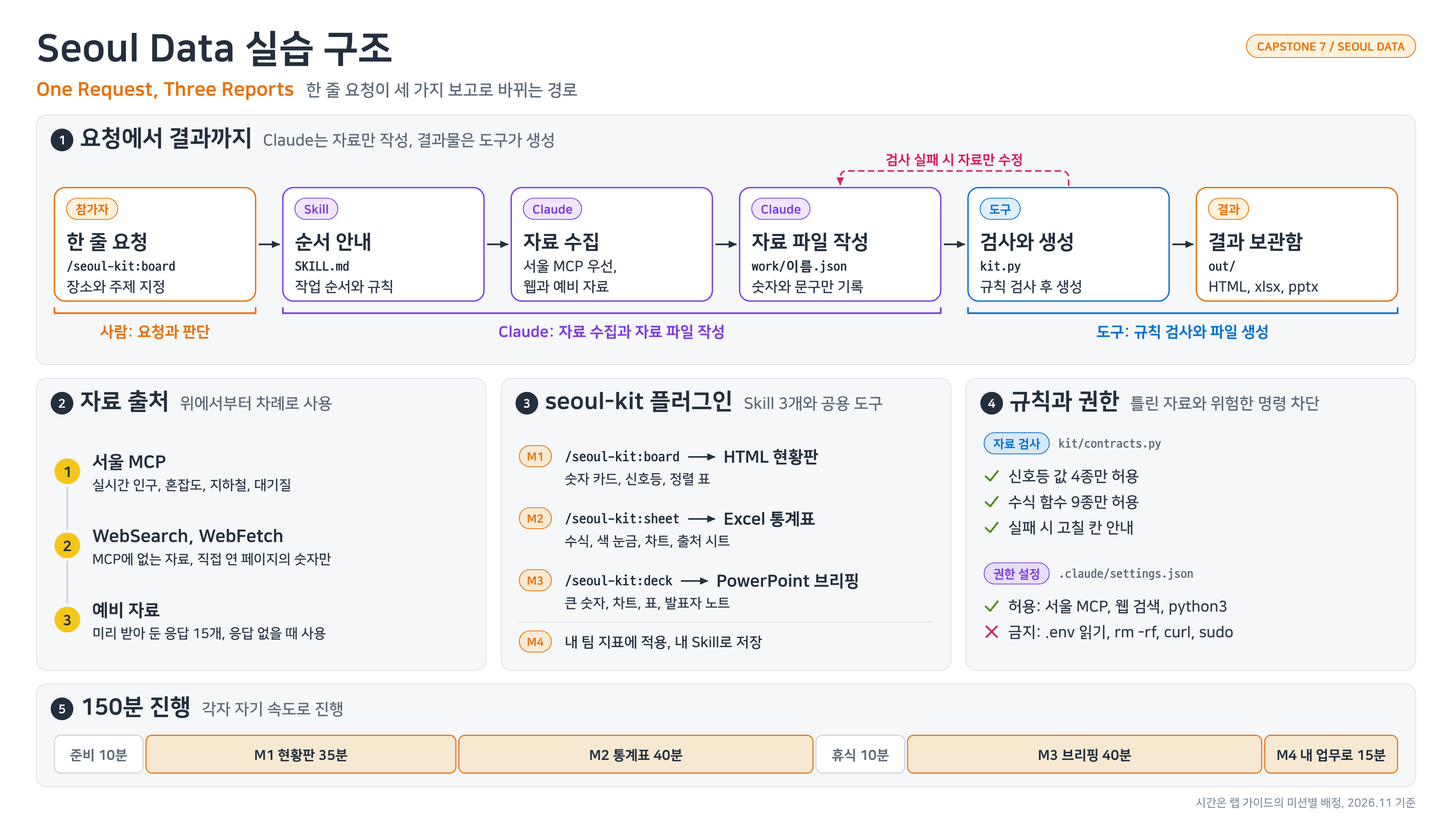
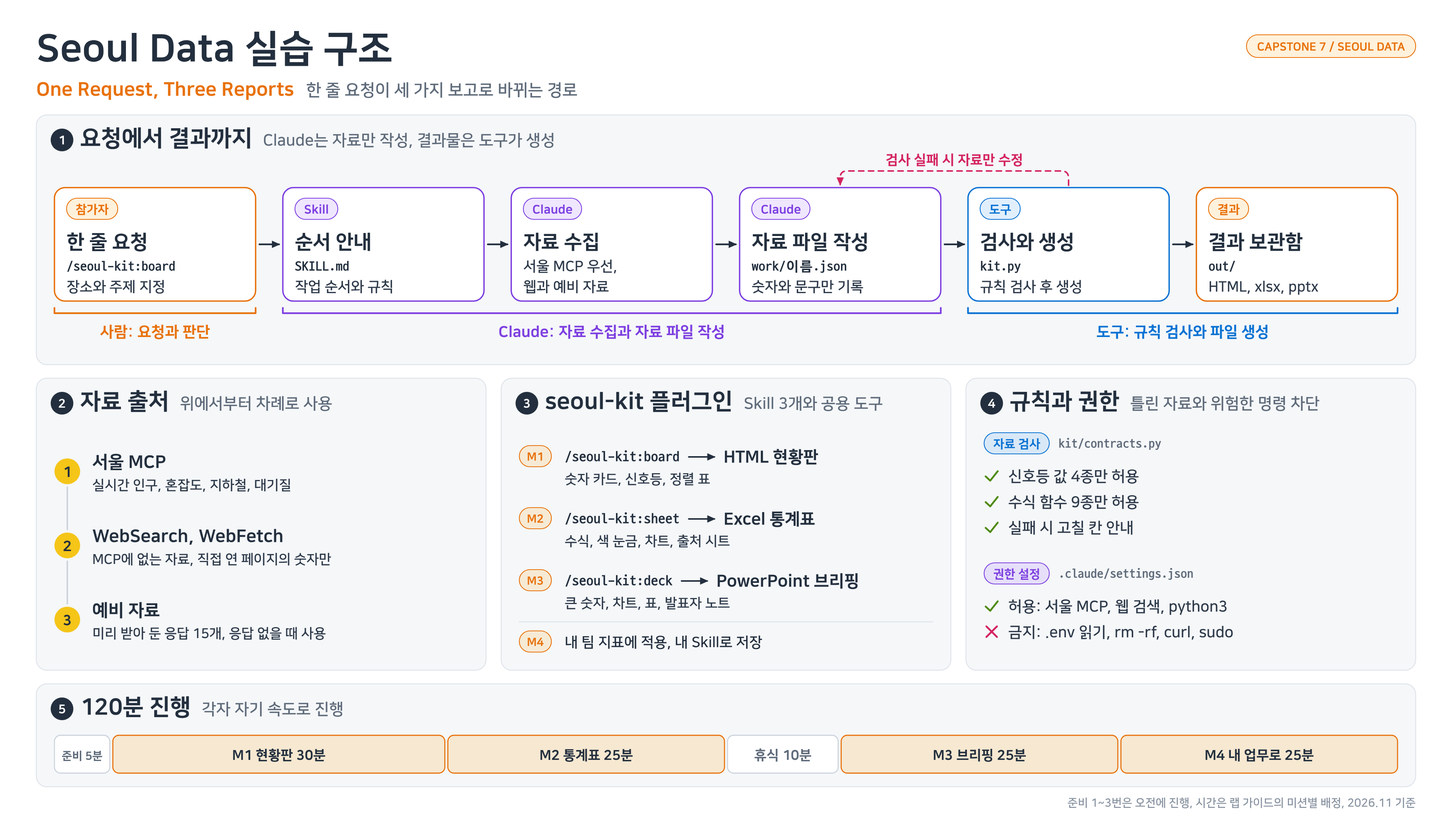
feat(lab): fit the Seoul Data lab into 120 minutes and keep the own-Skill step
The lab now runs in two hours: setup 5, mission 1 30, mission 2 25,
break 10, mission 3 25, mission 4 25. Saving your own Skill stays in
Day 1.

- lab/: one of the three "fix it by talking" prompts is required per
  mission; the two web steps move below the checkpoint as optional
  blocks; setup steps 1 to 3 are done in the morning lab-basics session
- lab/: mission 4 builds one board from the team CSV, saves the request
  as the monthly-report Skill, and that Skill then builds the board,
  the sheet and the deck in one line
- infographic/, lab/assets/: the time strip of the structure figure
  reads 120 minutes
- scripts/add-lab-to-workshop.py: the portal card says 120 minutes
- docs/, README.md: 120-minute run sheet, what to cut when the morning
  setup slips, measured call counts and what was tested

Tested the required path (14 guide prompts, from the first live
question to the end of mission 4) against the workshop gateway with
Sonnet in headless mode: all passed, 5.6 minutes of model time, 12
Seoul MCP calls, no errors. With the same allow list as the workspace
settings and a permission-prompt tool that records and approves
requests, the whole path raised one approval request, the write of
.claude/skills/monthly-report/SKILL.md; the saved Skill then built the
three outputs in a new session.

diff --git a/plugins-skills-workshop/lab/ClaudeCode_Day1_SeoulData_HandsOnLab.html b/plugins-skills-workshop/lab/ClaudeCode_Day1_SeoulData_HandsOnLab.html
@@ -55,7 +55,7 @@
     <div class="article-layout">
       <article class="lesson"><div class="legacy-content" id="workshop-content">
 <header class="hero">
-<span class="eyebrow">CAPSTONE 7 / SEOUL DATA / 150 MIN</span>
+<span class="eyebrow">CAPSTONE 7 / SEOUL DATA / 120 MIN</span>
 <h1>서울 데이터로 만드는 세 가지 보고</h1>
 <div class="subtitle">HTML 현황판, Excel 통계표, PowerPoint 브리핑, 그리고 내 업무로 바꾸기</div>
 <p class="lede">
@@ -64,7 +64,7 @@
     각자 자기 속도로 진행합니다.
   </p>
 <div class="hero-meta">
-<span>소요 시간 <strong>150분</strong></span>
+<span>소요 시간 <strong>120분</strong></span>
 <span>미션 <strong>4개 + 준비</strong></span>
 <span>산출물 <strong>현황판, 통계표, 브리핑, 내 Skill</strong></span>
 <span>Update <strong>2026.11</strong></span>
@@ -74,28 +74,32 @@
 <div class="timeline-inner">
 <span class="timeline-label">진행 <strong id="progress-count">0/5</strong></span>
 <div class="segments" id="segments">
-<button class="seg" data-task="ready" style="flex:10" title="준비, 10분"><span class="fill"></span><span class="seg-txt">준비</span></button>
-<button class="seg" data-task="m1" style="flex:35" title="미션 1 현황판, 35분"><span class="fill"></span><span class="seg-txt">1 현황판</span></button>
-<button class="seg" data-task="m2" style="flex:40" title="미션 2 통계표, 40분"><span class="fill"></span><span class="seg-txt">2 통계표</span></button>
-<button class="seg" data-task="m3" style="flex:40" title="미션 3 브리핑, 40분"><span class="fill"></span><span class="seg-txt">3 브리핑</span></button>
-<button class="seg" data-task="m4" style="flex:15" title="미션 4 내 업무로, 15분"><span class="fill"></span><span class="seg-txt">4 내 업무로</span></button>
+<button class="seg" data-task="ready" style="flex:8" title="준비, 5분"><span class="fill"></span><span class="seg-txt">준비</span></button>
+<button class="seg" data-task="m1" style="flex:30" title="미션 1 현황판, 30분"><span class="fill"></span><span class="seg-txt">1 현황판</span></button>
+<button class="seg" data-task="m2" style="flex:25" title="미션 2 통계표, 25분"><span class="fill"></span><span class="seg-txt">2 통계표</span></button>
+<button class="seg" data-task="m3" style="flex:25" title="미션 3 브리핑, 25분"><span class="fill"></span><span class="seg-txt">3 브리핑</span></button>
+<button class="seg" data-task="m4" style="flex:25" title="미션 4 내 업무로, 25분"><span class="fill"></span><span class="seg-txt">4 내 업무로</span></button>
 </div>
-<span class="timeline-label">150 min</span>
+<span class="timeline-label">120 min</span>
 </div>
 </nav>
 <div class="layout">
 
 <div class="original-main">
 <figure class="lab-structure" id="structure" style="margin:0 0 28px;">
-<a class="ls-light" href="assets/day1-lab/structure-light.png" rel="noopener" target="_blank" title="크게 보기"><img alt="실습 구조 그림. 참가자의 한 줄 요청을 받은 Skill이 순서를 안내하고, Claude가 서울 MCP와 웹과 예비 자료에서 자료를 모아 자료 파일을 쓰면, 도구가 규칙을 검사해 HTML 현황판, Excel 통계표, PowerPoint 브리핑을 만들어 결과 보관함에 둔다. 검사에 실패하면 자료만 고친다. 아래에는 자료 출처 순서, seoul-kit 플러그인의 Skill 세 개, 검사 규칙과 권한 설정, 150분 진행 순서가 있다" height="1080" loading="lazy" src="assets/day1-lab/structure-light.png" style="width:100%; display:block; border:1px solid var(--line); border-radius:10px;" width="1920"/></a>
-<a class="ls-dark" href="assets/day1-lab/structure-dark.png" rel="noopener" target="_blank" title="크게 보기"><img alt="실습 구조 그림. 참가자의 한 줄 요청을 받은 Skill이 순서를 안내하고, Claude가 서울 MCP와 웹과 예비 자료에서 자료를 모아 자료 파일을 쓰면, 도구가 규칙을 검사해 HTML 현황판, Excel 통계표, PowerPoint 브리핑을 만들어 결과 보관함에 둔다. 검사에 실패하면 자료만 고친다. 아래에는 자료 출처 순서, seoul-kit 플러그인의 Skill 세 개, 검사 규칙과 권한 설정, 150분 진행 순서가 있다" height="1080" loading="lazy" src="assets/day1-lab/structure-dark.png" style="width:100%; display:block; border:1px solid var(--line); border-radius:10px;" width="1920"/></a>
+<a class="ls-light" href="assets/day1-lab/structure-light.png" rel="noopener" target="_blank" title="크게 보기"><img alt="실습 구조 그림. 참가자의 한 줄 요청을 받은 Skill이 순서를 안내하고, Claude가 서울 MCP와 웹과 예비 자료에서 자료를 모아 자료 파일을 쓰면, 도구가 규칙을 검사해 HTML 현황판, Excel 통계표, PowerPoint 브리핑을 만들어 결과 보관함에 둔다. 검사에 실패하면 자료만 고친다. 아래에는 자료 출처 순서, seoul-kit 플러그인의 Skill 세 개, 검사 규칙과 권한 설정, 120분 진행 순서가 있다" height="1080" loading="lazy" src="assets/day1-lab/structure-light.png" style="width:100%; display:block; border:1px solid var(--line); border-radius:10px;" width="1920"/></a>
+<a class="ls-dark" href="assets/day1-lab/structure-dark.png" rel="noopener" target="_blank" title="크게 보기"><img alt="실습 구조 그림. 참가자의 한 줄 요청을 받은 Skill이 순서를 안내하고, Claude가 서울 MCP와 웹과 예비 자료에서 자료를 모아 자료 파일을 쓰면, 도구가 규칙을 검사해 HTML 현황판, Excel 통계표, PowerPoint 브리핑을 만들어 결과 보관함에 둔다. 검사에 실패하면 자료만 고친다. 아래에는 자료 출처 순서, seoul-kit 플러그인의 Skill 세 개, 검사 규칙과 권한 설정, 120분 진행 순서가 있다" height="1080" loading="lazy" src="assets/day1-lab/structure-dark.png" style="width:100%; display:block; border:1px solid var(--line); border-radius:10px;" width="1920"/></a>
 <figcaption style="margin-top:8px; font-size:13px; color:var(--muted);">실습 구조. Claude는 자료를 모아 자료 파일만 쓰고, 정해진 도구가 그 자료를 검사해 결과물을 만듭니다. 그림을 누르면 크게 열립니다.</figcaption>
 </figure>
 <section class="task" id="ready">
-<div class="task-head"><span class="task-num">SETUP</span><h2>준비, 플러그인 설치와 서울 데이터 연결</h2><span class="time-badge">10분</span></div>
+<div class="task-head"><span class="task-num">SETUP</span><h2>준비, 플러그인 설치와 서울 데이터 연결</h2><span class="time-badge">5분</span></div>
 <p class="task-goal">
     실습 자료를 받아 놓고, 오늘 쓸 <strong>seoul-kit 플러그인</strong>을 설치한 다음, 서울 열린데이터를 Claude Code에 연결합니다. 플러그인은 강의에서 본 대로 Skill과 도구를 한 묶음으로 설치하는 단위입니다.
 </p>
+<div class="callout tip">
+<span class="co-title">언제 하나요</span>
+    1번부터 3번까지는 오전 랩 기본 구성 시간에 함께 합니다. 오후 실습은 4번부터 시작합니다. 오전에 마치지 못했다면 1번부터 차례로 하세요.
+  </div>
 <div class="step-title"><span class="step-no">1</span>실습 자료 받기, 터미널에서 두 줄</div>
 <p class="body">code-server의 터미널에서 차례로 실행합니다. 첫 줄은 실습 자료를 내려받습니다. 둘째 줄은 플러그인 목록을 <code class="inline">~/workshop-kit</code>에, 작업 폴더를 <code class="inline">~/seoul-lab</code>에 놓고, Excel과 PowerPoint 파일을 만드는 데 쓰는 Python 라이브러리를 설치합니다.</p>
 <div class="code-wrap" data-code-kind="terminal">
@@ -159,7 +163,7 @@
 </div>
 </section>
 <section class="task" id="m1">
-<div class="task-head"><span class="task-num">MISSION 01</span><h2>현황판, 지금 서울 세 곳</h2><span class="time-badge">35분</span></div>
+<div class="task-head"><span class="task-num">MISSION 01</span><h2>현황판, 지금 서울 세 곳</h2><span class="time-badge">30분</span></div>
 <p class="task-goal">
     내가 고른 장소 세 곳의 지금 모습을 <strong>HTML 한 화면</strong>으로 만듭니다. 주간 현황 보고 화면을 만드는 일과 같습니다. 큰 숫자 카드와 신호등, 눌러서 정렬하는 비교표, 출처가 한 화면에 나옵니다.
 </p>
@@ -181,7 +185,7 @@
 <figcaption style="margin-top:6px; font-size:13px; color:var(--muted);">예시 화면. 숫자는 2026년 11월 19일 저녁의 실제 값이며 여러분 화면의 숫자는 다릅니다.</figcaption>
 </figure>
 <div class="step-title"><span class="step-no">3</span>말로 고치기</div>
-<p class="body">마음에 안 드는 곳을 말로 고칩니다. 하나씩 시켜 보고, 보관함에서 현황판을 새로 고쳐 확인하세요.</p>
+<p class="body">마음에 안 드는 곳을 말로 고칩니다. 셋 가운데 하나를 골라 시켜 보고, 보관함에서 현황판을 새로 고쳐 확인하세요. 시간이 남으면 나머지도 해 봅니다.</p>
 <div class="code-wrap prompt" data-code-kind="prompt">
 <div class="code-head"><span class="code-label">Claude 세션 입력, 고치기 1</span><button aria-label="Claude 세션 입력, 고치기 1 복사" class="ws-copy" data-copy-code="workshop-code-011" data-copy-label="Claude 세션 입력, 고치기 1 복사" type="button">복사</button></div>
 <pre id="workshop-code-011"><code>도로 평균 속도와 미세먼지도 카드로 넣어 줘</code></pre>
@@ -213,7 +217,7 @@
 <div class="cp-title">CHECKPOINT</div>
 <label class="cp-item"><input data-cp="m1a" type="checkbox"/><span>결과 보관함에서 내 현황판을 열었다</span></label>
 <label class="cp-item"><input data-cp="m1b" type="checkbox"/><span>표를 정렬하고 P로 발표 모드를 써 봤다</span></label>
-<label class="cp-item"><input data-cp="m1c" type="checkbox"/><span>말로 두 번 이상 고쳐서 내 현황판으로 만들었다</span></label>
+<label class="cp-item"><input data-cp="m1c" type="checkbox"/><span>말로 한 번 이상 고쳐서 내 현황판으로 만들었다</span></label>
 <label class="cp-item"><input data-cp="m1d" type="checkbox"/><span>검사 실패 문구를 보고 되돌렸다</span></label>
 </div>
 <div class="step-title"><span class="step-no">+</span>먼저 끝났다면, 도전 과제</div>
@@ -225,7 +229,7 @@
 </table>
 </section>
 <section class="task" id="m2">
-<div class="task-head"><span class="task-num">MISSION 02</span><h2>통계표, 숫자를 표로 따지기</h2><span class="time-badge">40분</span></div>
+<div class="task-head"><span class="task-num">MISSION 02</span><h2>통계표, 숫자를 표로 따지기</h2><span class="time-badge">25분</span></div>
 <p class="task-goal">
     숫자를 <strong>Excel 통계표</strong>로 만듭니다. 합계, 비율, 순위는 Claude가 계산해서 적는 것이 아니라 Excel 수식으로 들어갑니다. 받은 사람이 값을 고치면 계산이 따라 바뀝니다.
 </p>
@@ -258,6 +262,7 @@
 <figcaption style="margin-top:6px; font-size:13px; color:var(--muted);">예시. 색 눈금과 칸 안의 막대, 합계 줄, 차트가 함께 들어갑니다.</figcaption>
 </figure>
 <div class="step-title"><span class="step-no">3</span>말로 고치기</div>
+<p class="body">셋 가운데 하나를 골라 시켜 봅니다. 다른 주제를 골랐다면 역 이름과 열 이름을 내 표에 맞게 바꾸세요. 고친 뒤 보관함에서 다시 내려받습니다.</p>
 <div class="code-wrap prompt" data-code-kind="prompt">
 <div class="code-head"><span class="code-label">Claude 세션 입력, 고치기 1</span><button aria-label="Claude 세션 입력, 고치기 1 복사" class="ws-copy" data-copy-code="workshop-code-020" data-copy-label="Claude 세션 입력, 고치기 1 복사" type="button">복사</button></div>
 <pre id="workshop-code-020"><code>시트를 하나 더 만들어서 성수역과 나란히 비교해 줘. 두 역의 배율 열도 넣어 줘</code></pre>
@@ -270,16 +275,6 @@
 <div class="code-head"><span class="code-label">Claude 세션 입력, 고치기 3</span><button aria-label="Claude 세션 입력, 고치기 3 복사" class="ws-copy" data-copy-code="workshop-code-022" data-copy-label="Claude 세션 입력, 고치기 3 복사" type="button">복사</button></div>
 <pre id="workshop-code-022"><code>차트를 막대로 바꾸고, 가장 붐비는 시간대 세 개를 notes에 적어 줘</code></pre>
 </div>
-<div class="step-title"><span class="step-no">4</span>웹에서 비교 기준 찾아 붙이기</div>
-<p class="body">서울 데이터에 없는 것은 웹에서 찾습니다. Claude가 검색하고 페이지를 직접 열어 확인한 뒤 출처 주소를 적습니다. 찾지 못했다는 답도 정상입니다.</p>
-<div class="code-wrap prompt" data-code-kind="prompt">
-<div class="code-head"><span class="code-label">Claude 세션 입력</span><button aria-label="Claude 세션 입력 복사" class="ws-copy" data-copy-code="workshop-code-023" data-copy-label="Claude 세션 입력 복사" type="button">복사</button></div>
-<pre id="workshop-code-023"><code>이 표와 견줄 만한 기준을 웹에서 하나 찾아 줘. 예를 들면 지하철 전체에서 이 역의 순위나 지난해 수치. 직접 열어 확인한 숫자만 시트로 추가하고 출처 주소를 적어 줘. 못 찾으면 못 찾았다고 말해 줘</code></pre>
-</div>
-<div class="callout warn">
-<span class="co-title">웹에서 온 숫자는 한 번 더</span>
-    출처 주소를 눌러 직접 확인하세요. 보고에 쓰는 숫자의 책임은 사람에게 있습니다.
-  </div>
 <div class="callout tip">
 <span class="co-title">여기까지 배운 것</span>
     계산은 수식에 맡기고, AI에게는 자료를 모으고 표를 설계하는 일을 맡깁니다. 받은 사람이 값을 고쳐도 표가 살아 있습니다.
@@ -289,8 +284,17 @@
 <label class="cp-item"><input data-cp="m2a" type="checkbox"/><span>내려받은 통계표에서 수식이 든 칸을 확인했다</span></label>
 <label class="cp-item"><input data-cp="m2b" type="checkbox"/><span>숫자 하나를 바꿔 합계와 순위가 따라 바뀌는 것을 봤다</span></label>
 <label class="cp-item"><input data-cp="m2c" type="checkbox"/><span>말로 한 번 이상 고쳐서 다시 내려받았다</span></label>
-<label class="cp-item"><input data-cp="m2d" type="checkbox"/><span>웹 출처가 붙었거나, 찾지 못했다는 답을 받았다</span></label>
 </div>
+<div class="step-title"><span class="step-no">+</span>먼저 끝났다면, 웹에서 비교 기준 찾아 붙이기</div>
+<p class="body">서울 데이터에 없는 것은 웹에서 찾습니다. Claude가 검색하고 페이지를 직접 열어 확인한 뒤 출처 주소를 적습니다. 찾지 못했다는 답도 정상입니다.</p>
+<div class="code-wrap prompt" data-code-kind="prompt">
+<div class="code-head"><span class="code-label">Claude 세션 입력</span><button aria-label="Claude 세션 입력 복사" class="ws-copy" data-copy-code="workshop-code-023" data-copy-label="Claude 세션 입력 복사" type="button">복사</button></div>
+<pre id="workshop-code-023"><code>이 표와 견줄 만한 기준을 웹에서 하나 찾아 줘. 예를 들면 지하철 전체에서 이 역의 순위나 지난해 수치. 직접 열어 확인한 숫자만 시트로 추가하고 출처 주소를 적어 줘. 못 찾으면 못 찾았다고 말해 줘</code></pre>
+</div>
+<div class="callout warn">
+<span class="co-title">웹에서 온 숫자는 한 번 더</span>
+    출처 주소를 눌러 직접 확인하세요. 보고에 쓰는 숫자의 책임은 사람에게 있습니다.
+  </div>
 <div class="step-title"><span class="step-no">+</span>먼저 끝났다면, 도전 과제</div>
 <table class="tbl">
 <tr><th>누구에게</th><th>해 볼 것</th></tr>
@@ -304,7 +308,7 @@
   </div>
 </section>
 <section class="task" id="m3">
-<div class="task-head"><span class="task-num">MISSION 03</span><h2>브리핑, 다섯 장으로 말하기</h2><span class="time-badge">40분</span></div>
+<div class="task-head"><span class="task-num">MISSION 03</span><h2>브리핑, 다섯 장으로 말하기</h2><span class="time-badge">25분</span></div>
 <p class="task-goal">
     앞에서 만든 현황판과 통계표를 묶어 <strong>PowerPoint 보고 자료</strong>로 만듭니다. 장마다 한 줄 결론이 붙고, 표와 차트는 PowerPoint에서 고칠 수 있는 진짜 표와 차트입니다.
 </p>
@@ -325,6 +329,7 @@
 <figcaption style="margin-top:6px; font-size:13px; color:var(--muted);">예시. 색은 네 가지 가운데 고를 수 있습니다.</figcaption>
 </figure>
 <div class="step-title"><span class="step-no">3</span>말로 고치기</div>
+<p class="body">셋 가운데 하나를 골라 시켜 봅니다. 고친 뒤 보관함에서 다시 내려받아 확인하세요.</p>
 <div class="code-wrap prompt" data-code-kind="prompt">
 <div class="code-head"><span class="code-label">Claude 세션 입력, 고치기 1</span><button aria-label="Claude 세션 입력, 고치기 1 복사" class="ws-copy" data-copy-code="workshop-code-026" data-copy-label="Claude 세션 입력, 고치기 1 복사" type="button">복사</button></div>
 <pre id="workshop-code-026"><code>색을 forest로 바꿔 줘</code></pre>
@@ -337,16 +342,11 @@
 <div class="code-head"><span class="code-label">Claude 세션 입력, 고치기 3</span><button aria-label="Claude 세션 입력, 고치기 3 복사" class="ws-copy" data-copy-code="workshop-code-028" data-copy-label="Claude 세션 입력, 고치기 3 복사" type="button">복사</button></div>
 <pre id="workshop-code-028"><code>표가 있는 장을 막대 차트로 바꿔 줘</code></pre>
 </div>
-<div class="step-title"><span class="step-no">4</span>배경 한 장 더하기</div>
-<div class="code-wrap prompt" data-code-kind="prompt">
-<div class="code-head"><span class="code-label">Claude 세션 입력</span><button aria-label="Claude 세션 입력 복사" class="ws-copy" data-copy-code="workshop-code-029" data-copy-label="Claude 세션 입력 복사" type="button">복사</button></div>
-<pre id="workshop-code-029"><code>이 주제와 관련된 최근 소식이나 정책을 웹에서 하나 찾아서 정리 장 앞에 한 장으로 넣어 줘. 직접 연 페이지만 쓰고 출처 주소를 붙여 줘</code></pre>
-</div>
-<div class="step-title"><span class="step-no">5</span>검산하기</div>
+<div class="step-title"><span class="step-no">4</span>검산하기</div>
 <p class="body">보고 전에 숫자가 어디서 왔는지 되짚습니다. 표를 받은 뒤 숫자 하나를 골라 통계표와 직접 대조하세요.</p>
 <div class="code-wrap prompt" data-code-kind="prompt">
-<div class="code-head"><span class="code-label">Claude 세션 입력</span><button aria-label="Claude 세션 입력 복사" class="ws-copy" data-copy-code="workshop-code-030" data-copy-label="Claude 세션 입력 복사" type="button">복사</button></div>
-<pre id="workshop-code-030"><code>브리핑에 들어간 숫자를 전부 뽑아서, 각각 어느 자료의 어느 값에서 왔는지 표로 보여 줘. 직접 계산한 값은 계산식을 적어 줘</code></pre>
+<div class="code-head"><span class="code-label">Claude 세션 입력</span><button aria-label="Claude 세션 입력 복사" class="ws-copy" data-copy-code="workshop-code-029" data-copy-label="Claude 세션 입력 복사" type="button">복사</button></div>
+<pre id="workshop-code-029"><code>브리핑에 들어간 숫자를 전부 뽑아서, 각각 어느 자료의 어느 값에서 왔는지 표로 보여 줘. 직접 계산한 값은 계산식을 적어 줘</code></pre>
 </div>
 <div class="callout tip">
 <span class="co-title">여기까지 배운 것</span>
@@ -356,8 +356,14 @@
 <div class="cp-title">CHECKPOINT</div>
 <label class="cp-item"><input data-cp="m3a" type="checkbox"/><span>내려받은 브리핑에서 차트가 편집되는 것을 확인했다</span></label>
 <label class="cp-item"><input data-cp="m3b" type="checkbox"/><span>발표자 노트와 출처 장을 확인했다</span></label>
-<label class="cp-item"><input data-cp="m3c" type="checkbox"/><span>말로 두 번 이상 고쳤다</span></label>
+<label class="cp-item"><input data-cp="m3c" type="checkbox"/><span>말로 한 번 이상 고쳤다</span></label>
 <label class="cp-item"><input data-cp="m3d" type="checkbox"/><span>숫자 하나를 내 눈으로 통계표와 대조했다</span></label>
+</div>
+<div class="step-title"><span class="step-no">+</span>먼저 끝났다면, 웹에서 배경 한 장 더하기</div>
+<p class="body">이 주제의 배경이 되는 소식이나 정책을 웹에서 찾아 한 장으로 넣습니다. Claude가 직접 연 페이지만 쓰고 출처 주소를 붙입니다.</p>
+<div class="code-wrap prompt" data-code-kind="prompt">
+<div class="code-head"><span class="code-label">Claude 세션 입력</span><button aria-label="Claude 세션 입력 복사" class="ws-copy" data-copy-code="workshop-code-030" data-copy-label="Claude 세션 입력 복사" type="button">복사</button></div>
+<pre id="workshop-code-030"><code>이 주제와 관련된 최근 소식이나 정책을 웹에서 하나 찾아서 정리 장 앞에 한 장으로 넣어 줘. 직접 연 페이지만 쓰고 출처 주소를 붙여 줘</code></pre>
 </div>
 <div class="step-title"><span class="step-no">+</span>먼저 끝났다면, 도전 과제</div>
 <table class="tbl">
@@ -368,40 +374,33 @@
 </table>
 </section>
 <section class="task" id="m4">
-<div class="task-head"><span class="task-num">MISSION 04</span><h2>내 업무로 바꾸기</h2><span class="time-badge">15분</span></div>
+<div class="task-head"><span class="task-num">MISSION 04</span><h2>내 업무로 바꾸기</h2><span class="time-badge">25분</span></div>
 <p class="task-goal">
     서울 데이터 자리에 내 자료를 넣습니다. 작업 폴더의 <code class="inline">data/team-kpi.csv</code>는 연습용으로 지어낸 팀 지표입니다. 실제 업무 자료는 오늘 올리지 않습니다.
 </p>
-<div class="step-title"><span class="step-no">1</span>팀 지표로 세 가지 만들기</div>
+<div class="step-title"><span class="step-no">1</span>팀 지표로 현황판 만들기</div>
+<p class="body">먼저 하나를 직접 만들어 봅니다. 신호등 이름과 기준은 내가 정합니다.</p>
 <div class="code-wrap prompt" data-code-kind="prompt">
 <div class="code-head"><span class="code-label">Claude 세션 입력, 현황판</span><button aria-label="Claude 세션 입력, 현황판 복사" class="ws-copy" data-copy-code="workshop-code-031" data-copy-label="Claude 세션 입력, 현황판 복사" type="button">복사</button></div>
 <pre id="workshop-code-031"><code>data/team-kpi.csv로 현황판을 만들어 줘. 신호등은 달성, 주의, 미달로 하고, 기준은 재문의율 7% 이하면 달성, 9% 이하면 주의, 그보다 높으면 미달이야</code></pre>
 </div>
-<div class="code-wrap prompt" data-code-kind="prompt">
-<div class="code-head"><span class="code-label">Claude 세션 입력, 통계표</span><button aria-label="Claude 세션 입력, 통계표 복사" class="ws-copy" data-copy-code="workshop-code-032" data-copy-label="Claude 세션 입력, 통계표 복사" type="button">복사</button></div>
-<pre id="workshop-code-032"><code>같은 자료로 통계표도 만들어 줘. 처리율 열을 수식으로 넣고 월별 추이 차트를 붙여 줘</code></pre>
-</div>
-<div class="code-wrap prompt" data-code-kind="prompt">
-<div class="code-head"><span class="code-label">Claude 세션 입력, 브리핑</span><button aria-label="Claude 세션 입력, 브리핑 복사" class="ws-copy" data-copy-code="workshop-code-033" data-copy-label="Claude 세션 입력, 브리핑 복사" type="button">복사</button></div>
-<pre id="workshop-code-033"><code>방금 두 결과를 묶어 월간 보고 브리핑으로 만들어 줘</code></pre>
-</div>
 <div class="step-title"><span class="step-no">2</span>내 Skill로 저장하기</div>
-<p class="body">매달 같은 보고를 한다면 방금 한 요청을 Skill로 남깁니다. 다음 달에는 한 줄이면 됩니다. 저장할 때 승인 창이 뜨면 내용을 읽고 <strong>Yes</strong>를 고릅니다.</p>
+<p class="body">매달 같은 보고를 한다면 방금 한 요청을 Skill로 남깁니다. 다음 달에는 한 줄이면 됩니다. 이번에는 통계표와 브리핑까지 한 번에 만들도록 적어 둡니다. 저장할 때 승인 창이 뜨면 내용을 읽고 <strong>Yes</strong>를 고릅니다.</p>
 <div class="code-wrap prompt" data-code-kind="prompt">
-<div class="code-head"><span class="code-label">Claude 세션 입력</span><button aria-label="Claude 세션 입력 복사" class="ws-copy" data-copy-code="workshop-code-034" data-copy-label="Claude 세션 입력 복사" type="button">복사</button></div>
-<pre id="workshop-code-034"><code>방금 한 세 가지 요청을 "monthly-report"라는 Skill로 만들어 줘. 이 폴더의 .claude/skills 안에 두고, CSV 파일 경로를 받아서 현황판, 통계표, 브리핑을 차례로 만들게 해 줘. 신호등 기준도 그 안에 적어 줘</code></pre>
+<div class="code-head"><span class="code-label">Claude 세션 입력</span><button aria-label="Claude 세션 입력 복사" class="ws-copy" data-copy-code="workshop-code-032" data-copy-label="Claude 세션 입력 복사" type="button">복사</button></div>
+<pre id="workshop-code-032"><code>방금 한 요청을 "monthly-report"라는 Skill로 만들어 줘. 이 폴더의 .claude/skills 안에 두고, CSV 파일 경로를 받아서 현황판, 통계표, 브리핑을 차례로 만들게 해 줘. 현황판은 방금 쓴 신호등 기준을 그대로 적고, 통계표에는 처리율 열을 수식으로 넣고 월별 추이 차트를 붙이고, 브리핑은 두 결과를 묶은 월간 보고로 만들게 해 줘</code></pre>
 </div>
 <p class="body">만든 뒤 Claude Code를 끝냈다가(<code class="inline">Ctrl+C</code> 두 번) 터미널에서 <code class="inline">claude</code>로 다시 시작하고 실행합니다.</p>
 <div class="code-wrap prompt" data-code-kind="prompt">
-<div class="code-head"><span class="code-label">Claude 세션 입력</span><button aria-label="Claude 세션 입력 복사" class="ws-copy" data-copy-code="workshop-code-035" data-copy-label="Claude 세션 입력 복사" type="button">복사</button></div>
-<pre id="workshop-code-035"><code>/monthly-report data/team-kpi.csv</code></pre>
+<div class="code-head"><span class="code-label">Claude 세션 입력</span><button aria-label="Claude 세션 입력 복사" class="ws-copy" data-copy-code="workshop-code-033" data-copy-label="Claude 세션 입력 복사" type="button">복사</button></div>
+<pre id="workshop-code-033"><code>/monthly-report data/team-kpi.csv</code></pre>
 </div>
 <p class="body">세 결과가 차례로 만들어지며 1분쯤 걸립니다. 결과 보관함에서 새 결과 세 개를 확인하세요.</p>
 <div class="step-title"><span class="step-no">3</span>내 업무 한 줄 적기</div>
 <p class="body">내 업무에서 매주 또는 매달 되풀이하는 보고를 하나 떠올려 대괄호 안을 바꿔 물어보세요. 이 답이 Day 2 숙제의 출발점입니다.</p>
 <div class="code-wrap prompt" data-code-kind="prompt">
-<div class="code-head"><span class="code-label">Claude 세션 입력</span><button aria-label="Claude 세션 입력 복사" class="ws-copy" data-copy-code="workshop-code-036" data-copy-label="Claude 세션 입력 복사" type="button">복사</button></div>
-<pre id="workshop-code-036"><code>나는 매주 [여기에 내 업무를 적으세요. 예: 고객 문의 건수를 엑셀로 정리해 팀장에게 메일로 보고]를 해. 오늘 배운 방식으로 바꾸려면 어떤 자료가 필요하고 어떤 순서로 하면 될지 정리해 줘</code></pre>
+<div class="code-head"><span class="code-label">Claude 세션 입력</span><button aria-label="Claude 세션 입력 복사" class="ws-copy" data-copy-code="workshop-code-034" data-copy-label="Claude 세션 입력 복사" type="button">복사</button></div>
+<pre id="workshop-code-034"><code>나는 매주 [여기에 내 업무를 적으세요. 예: 고객 문의 건수를 엑셀로 정리해 팀장에게 메일로 보고]를 해. 오늘 배운 방식으로 바꾸려면 어떤 자료가 필요하고 어떤 순서로 하면 될지 정리해 줘</code></pre>
 </div>
 <div class="checkpoint">
 <div class="cp-title">CHECKPOINT</div>
@@ -418,29 +417,29 @@
 <div class="step-title"><span class="step-no">?</span>seoul이 Failed to connect로 나오거나 /mcp 목록에 없다</div>
 <p class="body">워크숍 코드를 잘못 넣었거나 준비 3번을 건너뛴 것입니다. Claude Code가 열려 있으면 <code class="inline">/exit</code>로 끝내고 터미널에서 차례로 실행합니다. 첫 줄은 잘못 등록된 것을 지웁니다. 등록한 적이 없으면 그런 이름이 없다고 나오는데 그대로 넘어갑니다. 둘째 줄은 준비 3번의 명령입니다. 끝의 <code class="inline">seoul-XXXX-XXXX</code>를 화면의 코드로 바꿔 실행하고, <code class="inline">claude mcp list</code>로 다시 확인합니다.</p>
 <div class="code-wrap" data-code-kind="terminal">
-<div class="code-head"><span class="code-label"><span aria-hidden="true" class="terminal-lights"><span class="terminal-light-close"></span><span class="terminal-light-minimize"></span><span class="terminal-light-zoom"></span></span>Terminal, 다시 등록 1/2</span><button aria-label="Terminal, 다시 등록 1/2 복사" class="ws-copy" data-copy-code="workshop-code-037" data-copy-label="Terminal, 다시 등록 1/2 복사" type="button">복사</button></div>
-<pre id="workshop-code-037"><code>claude mcp remove seoul</code></pre>
+<div class="code-head"><span class="code-label"><span aria-hidden="true" class="terminal-lights"><span class="terminal-light-close"></span><span class="terminal-light-minimize"></span><span class="terminal-light-zoom"></span></span>Terminal, 다시 등록 1/2</span><button aria-label="Terminal, 다시 등록 1/2 복사" class="ws-copy" data-copy-code="workshop-code-035" data-copy-label="Terminal, 다시 등록 1/2 복사" type="button">복사</button></div>
+<pre id="workshop-code-035"><code>claude mcp remove seoul</code></pre>
 </div>
 <div class="code-wrap" data-code-kind="terminal">
-<div class="code-head"><span class="code-label"><span aria-hidden="true" class="terminal-lights"><span class="terminal-light-close"></span><span class="terminal-light-minimize"></span><span class="terminal-light-zoom"></span></span>Terminal, 다시 등록 2/2</span><button aria-label="Terminal, 다시 등록 2/2 복사" class="ws-copy" data-copy-code="workshop-code-038" data-copy-label="Terminal, 다시 등록 2/2 복사" type="button">복사</button></div>
-<pre id="workshop-code-038"><code>claude mcp add --scope user --transport http seoul https://seoul-workshop-gateway-ttx8d3jawk.gateway.bedrock-agentcore.ap-northeast-2.amazonaws.com/mcp --header "Authorization: Bearer seoul-XXXX-XXXX"</code></pre>
+<div class="code-head"><span class="code-label"><span aria-hidden="true" class="terminal-lights"><span class="terminal-light-close"></span><span class="terminal-light-minimize"></span><span class="terminal-light-zoom"></span></span>Terminal, 다시 등록 2/2</span><button aria-label="Terminal, 다시 등록 2/2 복사" class="ws-copy" data-copy-code="workshop-code-036" data-copy-label="Terminal, 다시 등록 2/2 복사" type="button">복사</button></div>
+<pre id="workshop-code-036"><code>claude mcp add --scope user --transport http seoul https://seoul-workshop-gateway-ttx8d3jawk.gateway.bedrock-agentcore.ap-northeast-2.amazonaws.com/mcp --header "Authorization: Bearer seoul-XXXX-XXXX"</code></pre>
 </div>
 <div class="step-title"><span class="step-no">?</span>서울 데이터가 응답하지 않거나 한도 안내가 나온다</div>
 <p class="body">여러 사람이 함께 쓰는 서버라 잠깐 밀릴 수 있습니다. 1분 뒤 다시 시키거나, 미리 받아 둔 자료로 진행하세요.</p>
 <div class="code-wrap prompt" data-code-kind="prompt">
-<div class="code-head"><span class="code-label">Claude 세션 입력</span><button aria-label="Claude 세션 입력 복사" class="ws-copy" data-copy-code="workshop-code-039" data-copy-label="Claude 세션 입력 복사" type="button">복사</button></div>
-<pre id="workshop-code-039"><code>서울 MCP가 응답하지 않아. data/seoul-sample 폴더의 미리 받아 둔 자료로 만들어 줘. 화면에 미리 받아 둔 자료라고 적어 줘</code></pre>
+<div class="code-head"><span class="code-label">Claude 세션 입력</span><button aria-label="Claude 세션 입력 복사" class="ws-copy" data-copy-code="workshop-code-037" data-copy-label="Claude 세션 입력 복사" type="button">복사</button></div>
+<pre id="workshop-code-037"><code>서울 MCP가 응답하지 않아. data/seoul-sample 폴더의 미리 받아 둔 자료로 만들어 줘. 화면에 미리 받아 둔 자료라고 적어 줘</code></pre>
 </div>
 <div class="step-title"><span class="step-no">?</span>결과 보관함이 열리지 않는다</div>
 <p class="body">주소 끝에 빗금까지 넣었는지 확인하세요. <code class="inline">/proxy/8000/</code>입니다. 그래도 안 열리면 Claude에게 시킵니다.</p>
 <div class="code-wrap prompt" data-code-kind="prompt">
-<div class="code-head"><span class="code-label">Claude 세션 입력</span><button aria-label="Claude 세션 입력 복사" class="ws-copy" data-copy-code="workshop-code-040" data-copy-label="Claude 세션 입력 복사" type="button">복사</button></div>
-<pre id="workshop-code-040"><code>결과 보관함을 켜 줘</code></pre>
+<div class="code-head"><span class="code-label">Claude 세션 입력</span><button aria-label="Claude 세션 입력 복사" class="ws-copy" data-copy-code="workshop-code-038" data-copy-label="Claude 세션 입력 복사" type="button">복사</button></div>
+<pre id="workshop-code-038"><code>결과 보관함을 켜 줘</code></pre>
 </div>
 <div class="step-title"><span class="step-no">?</span>검사 실패가 계속 나온다</div>
 <div class="code-wrap prompt" data-code-kind="prompt">
-<div class="code-head"><span class="code-label">Claude 세션 입력</span><button aria-label="Claude 세션 입력 복사" class="ws-copy" data-copy-code="workshop-code-041" data-copy-label="Claude 세션 입력 복사" type="button">복사</button></div>
-<pre id="workshop-code-041"><code>검사 실패가 나온 칸을 규칙에 맞게 줄이거나 고쳐서 다시 만들어 줘. 규칙은 바꾸지 마</code></pre>
+<div class="code-head"><span class="code-label">Claude 세션 입력</span><button aria-label="Claude 세션 입력 복사" class="ws-copy" data-copy-code="workshop-code-039" data-copy-label="Claude 세션 입력 복사" type="button">복사</button></div>
+<pre id="workshop-code-039"><code>검사 실패가 나온 칸을 규칙에 맞게 줄이거나 고쳐서 다시 만들어 줘. 규칙은 바꾸지 마</code></pre>
 </div>
 <table class="tbl">
 <tr><th>증상</th><th>해 볼 것</th></tr>
@@ -462,7 +461,7 @@
 <tr><th>한 일</th><th>쓴 것</th></tr>
 <tr><td>실시간 서울 데이터를 말로 불러왔다</td><td>MCP</td></tr>
 <tr><td>한 줄로 현황판, 통계표, 브리핑을 만들었다</td><td>Plugin에 담긴 Skill</td></tr>
-<tr><td>없는 자료는 웹에서 찾아 출처를 붙였다</td><td>WebSearch, WebFetch</td></tr>
+<tr><td>먼저 끝낸 분은 없는 자료를 웹에서 찾아 출처를 붙였다</td><td>WebSearch, WebFetch</td></tr>
 <tr><td>승인 창 없이 안전하게 진행했다</td><td>오전에 배운 설정과 권한</td></tr>
 <tr><td>내 반복 업무를 Skill로 남겼다</td><td>내 Skill</td></tr>
 </table>
@@ -492,12 +491,12 @@
   <a class="pagination-link next" href="#help"><span><small>막혔다면</small><strong>막히면 다시 보기</strong></span><svg class="icon" viewBox="0 0 24 24" fill="none" stroke="currentColor" stroke-width="1.7" stroke-linecap="round" stroke-linejoin="round" aria-hidden="true"><path d="M4 12h16m-6-6 6 6-6 6"/></svg></a>
 </nav></article>
       <details class="article-toc" data-page-toc open><summary>이 페이지에서<span class="toc-toggle" aria-hidden="true">⌄</span></summary><nav aria-label="페이지 목차"><aside aria-label="미션 목차" class="sidenav">
-<div class="nav-title">MISSIONS / 150분</div>
-<a data-nav="ready" data-toc-link="" href="#ready"><span class="dot"></span>준비<span class="nav-time">10분</span></a>
-<a data-nav="m1" data-toc-link="" href="#m1"><span class="dot"></span>M1 현황판<span class="nav-time">35분</span></a>
-<a data-nav="m2" data-toc-link="" href="#m2"><span class="dot"></span>M2 통계표<span class="nav-time">40분</span></a>
-<a data-nav="m3" data-toc-link="" href="#m3"><span class="dot"></span>M3 브리핑<span class="nav-time">40분</span></a>
-<a data-nav="m4" data-toc-link="" href="#m4"><span class="dot"></span>M4 내 업무로<span class="nav-time">15분</span></a>
+<div class="nav-title">MISSIONS / 120분</div>
+<a data-nav="ready" data-toc-link="" href="#ready"><span class="dot"></span>준비<span class="nav-time">5분</span></a>
+<a data-nav="m1" data-toc-link="" href="#m1"><span class="dot"></span>M1 현황판<span class="nav-time">30분</span></a>
+<a data-nav="m2" data-toc-link="" href="#m2"><span class="dot"></span>M2 통계표<span class="nav-time">25분</span></a>
+<a data-nav="m3" data-toc-link="" href="#m3"><span class="dot"></span>M3 브리핑<span class="nav-time">25분</span></a>
+<a data-nav="m4" data-toc-link="" href="#m4"><span class="dot"></span>M4 내 업무로<span class="nav-time">25분</span></a>
 <a data-nav="help" data-toc-link="" href="#help"><span class="dot"></span>막히면<span class="nav-time">참고</span></a>
 <a data-nav="wrapup" data-toc-link="" href="#wrapup"><span class="dot"></span>마무리<span class="nav-time"></span></a>
 </aside></nav><a class="back-to-top" href="#workshop-main">맨 위로 ↑</a></details>
@@ -509,7 +508,7 @@
 <script>
 (function () {
   "use strict";
-  var taskGroups = { ready:["r0","r1","r4","r2","r3"], m1:["m1a","m1b","m1c","m1d"], m2:["m2a","m2b","m2c","m2d"], m3:["m3a","m3b","m3c","m3d"], m4:["m4a","m4b","m4c"] };
+  var taskGroups = { ready:["r0","r1","r4","r2","r3"], m1:["m1a","m1b","m1c","m1d"], m2:["m2a","m2b","m2c"], m3:["m3a","m3b","m3c","m3d"], m4:["m4a","m4b","m4c"] };
   var state = {};
   function refresh() {
     var doneCount = 0;

diff --git a/plugins-skills-workshop/infographic/seoul-lab/structure.py b/plugins-skills-workshop/infographic/seoul-lab/structure.py
@@ -43,11 +43,11 @@ T = dict(
     s4=("규칙과 권한", "틀린 자료와 위험한 명령 차단"),
     rules=("자료 검사", "kit/contracts.py", ["신호등 값 4종만 허용", "수식 함수 9종만 허용", "실패 시 고칠 칸 안내"]),
     perms=("권한 설정", ".claude/settings.json", "허용: 서울 MCP, 웹 검색, python3", "금지: .env 읽기, rm -rf, curl, sudo"),
-    s5=("150분 진행", "각자 자기 속도로 진행"),
+    s5=("120분 진행", "각자 자기 속도로 진행"),
     # (이름, 분, 미션 여부)
-    plan=[("준비", 10, False), ("M1 현황판", 35, True), ("M2 통계표", 40, True), ("휴식", 10, False),
-          ("M3 브리핑", 40, True), ("M4 내 업무로", 15, True)],
-    note="시간은 랩 가이드의 미션별 배정, 2026.11 기준",
+    plan=[("준비", 5, False), ("M1 현황판", 30, True), ("M2 통계표", 25, True), ("휴식", 10, False),
+          ("M3 브리핑", 25, True), ("M4 내 업무로", 25, True)],
+    note="준비 1~3번은 오전에 진행, 시간은 랩 가이드의 미션별 배정, 2026.11 기준",
 )
 
 TS, KS = 30, 21   # 섹션 제목, 요지
@@ -149,7 +149,8 @@ def s5(d, x, y, w, h):
             d.rect(cx, sy, sw_, sh, rx=8, fill="orangeF", fo=0.16, stroke="orange", sw=1.4)
         else:
             d.rect(cx, sy, sw_, sh, rx=8, fill="panel", stroke="line2", sw=1.4)
-        d.text(cx + sw_ / 2, sy + 32, f"{name} {minutes}분", 18, 700, "text" if mission else "muted", "middle",
+        size = 18 if sw_ >= 100 else 15          # 5분짜리 좁은 칸은 글자를 줄인다
+        d.text(cx + sw_ / 2, sy + 32, f"{name} {minutes}분", size, 700, "text" if mission else "muted", "middle",
                box=(cx - 5, sy, sw_ + 10, sh))
         cx += sw_ + gap
 

diff --git a/plugins-skills-workshop/scripts/add-lab-to-workshop.py b/plugins-skills-workshop/scripts/add-lab-to-workshop.py
@@ -59,7 +59,7 @@ CARD = u"""<a class="card" href="{page}.html">
 <h3>{title}</h3>
 <p class="desc"><b>업무 활용 트랙.</b> 개발자가 아니어도 따라 합니다. seoul-kit 플러그인과 서울 MCP로 실시간 서울 데이터를 가져와 HTML 현황판, Excel 통계표, PowerPoint 브리핑을 차례로 만듭니다. 코드를 쓰지 않고 말로 시키고 말로 고칩니다.</p>
 <p class="finale">피날레: <b>같은 방식을 내 팀 지표에 적용하고, 내 Skill 한 줄로 세 결과를 만듭니다.</b></p>
-<span class="foot"><span>150분 / 준비 + 미션 4</span><span class="go">시작 →</span></span>
+<span class="foot"><span>120분 / 준비 + 미션 4</span><span class="go">시작 →</span></span>
 </a>
 """.format(page=PAGE, identity=IDENTITY, title=TITLE)
 CARD_RE = re.compile(r'<a class="card" href="%s\.html">.*?</a>\n' % PAGE, re.S)

diff --git a/plugins-skills-workshop/docs/session-plugins-skills.md b/plugins-skills-workshop/docs/session-plugins-skills.md
@@ -114,7 +114,8 @@ claude plugin install seoul-kit@workshop-kit
 
 랩 가이드(`lab/ClaudeCode_Day1_SeoulData_HandsOnLab.html`)를 화면에 띄우고, 맨 앞의 실습 구조 그림으로 오늘 본 Skill, Plugin, 검사 규칙, 권한 설정이 LAB에서 어디에 쓰이는지 짚은 뒤 다음을 알린다.
 
-- 준비 3번에서 서울 데이터를 연결한다. 명령 끝의 `seoul-XXXX-XXXX`를 화면에 띄운 워크숍 코드로 바꿔 넣는다. 코드는 가이드에 없으므로 준비가 끝날 때까지 화면에 띄워 둔다.
+- 준비 1~3번(자료 받기, 플러그인 설치, 서울 데이터 연결)은 오전 랩 기본 구성에서 마쳤다. LAB은 준비 4번부터 시작한다. 오전에 못 마친 사람은 1번부터 하고, 3번의 명령 끝 `seoul-XXXX-XXXX`를 화면에 띄운 워크숍 코드로 바꿔 넣는다.
+- LAB은 120분이다. "말로 고치기"는 셋 가운데 하나만 해도 되고, 웹에서 찾는 단계는 먼저 끝낸 사람이 한다. 미션 4의 내 Skill 저장은 모두 한다.
 - 각자 자기 속도로 진행한다. 미션은 현황판, 통계표, 브리핑 순서다.
 - 상자 오른쪽의 복사를 눌러 붙여 넣는다. 장소와 역 이름은 자기 것으로 바꾼다.
 - 미션마다 "먼저 끝났다면" 과제가 직군별로 있다.

diff --git a/plugins-skills-workshop/infographic/seoul-lab/sources.md b/plugins-skills-workshop/infographic/seoul-lab/sources.md
@@ -12,7 +12,7 @@
 | 신호등 값 | green, yellow, red, none 4종 | `kit/contracts.py` |
 | 수식 함수 | SUM, AVERAGE, MAX, MIN, ROUND, IF, RANK, ABS, COUNT 9종 | `kit/contracts.py`의 `FUNCTIONS` |
 | 권한 | 허용 `mcp__seoul`, `WebSearch`, `WebFetch`, `Bash(python3:*)`, 금지 `Read(./.env)`, `Bash(rm -rf:*)`, `Bash(curl:*)`, `Bash(sudo:*)` | `workspace/.claude/settings.json` |
-| 진행 시간 | 준비 10, M1 35, M2 40, 휴식 10, M3 40, M4 15, 합계 150분 | `lab/ClaudeCode_Day1_SeoulData_HandsOnLab.html`의 미션별 시간과 M2 끝의 쉬는 시간 |
+| 진행 시간 | 준비 5, M1 30, M2 25, 휴식 10, M3 25, M4 25, 합계 120분. 준비 1~3번은 오전 랩 기본 구성에서 마친다 | `lab/ClaudeCode_Day1_SeoulData_HandsOnLab.html`의 미션별 시간과 M2 끝의 쉬는 시간 |
 
 ## 다시 빌드하기
 

diff --git a/plugins-skills-workshop/README.md b/plugins-skills-workshop/README.md
@@ -1,6 +1,6 @@
 # Plugins & Skills 워크숍 Day 1 자료
 
-비개발 직군을 위한 Claude Code 워크숍 Day 1의 오후 세션(Plugins & Skills 50분)과 LAB(150분) 자료다. 참가자는 서울 열린데이터를 가져와 HTML 현황판, Excel 통계표, PowerPoint 브리핑을 각자 만든다.
+비개발 직군을 위한 Claude Code 워크숍 Day 1의 오후 세션(Plugins & Skills 50분)과 LAB(120분) 자료다. 참가자는 서울 열린데이터를 가져와 HTML 현황판, Excel 통계표, PowerPoint 브리핑을 각자 만든다.
 
 ## 구성
 
